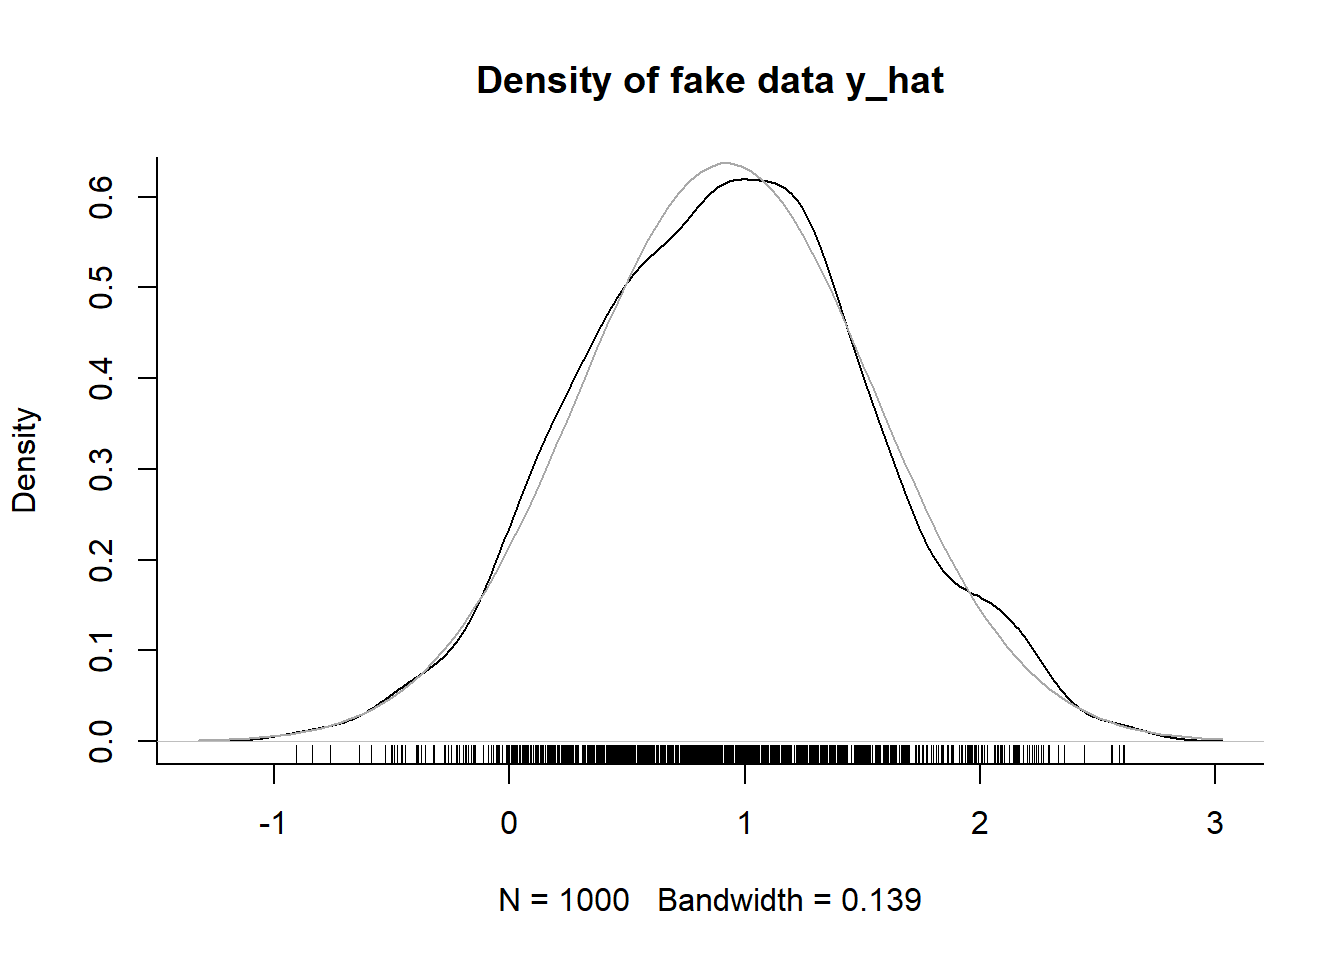
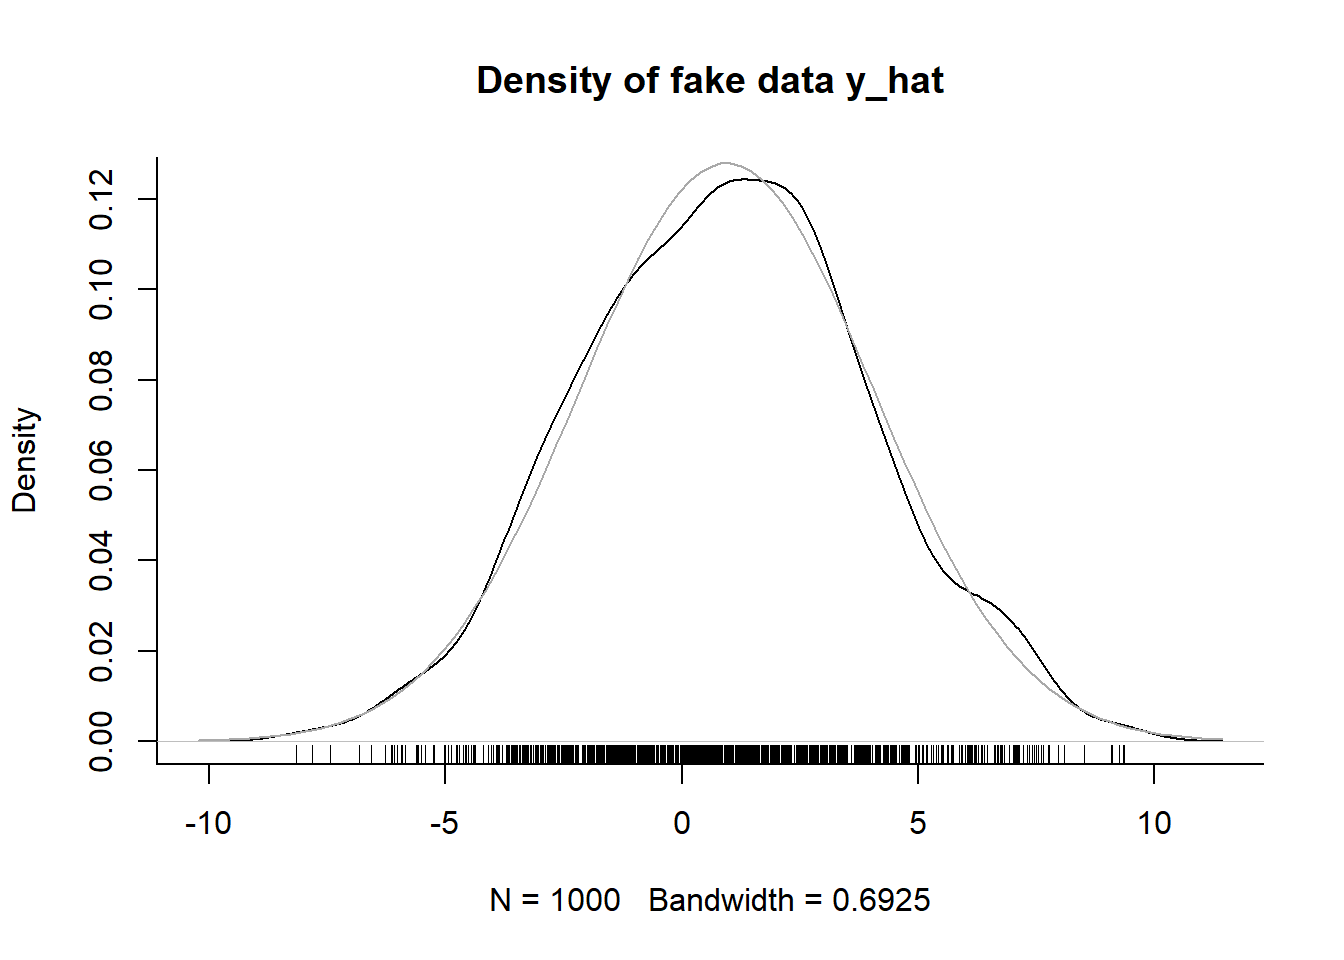
update tiny gan

diff --git a/blog/tiny_gan.html b/blog/tiny_gan.html
@@ -2824,11 +2824,11 @@ Theoretical note
 <div class="sourceCode cell-code" id="cb11"><pre class="sourceCode r code-with-copy"><code class="sourceCode r"><span id="cb11-1"><a href="#cb11-1" aria-hidden="true" tabindex="-1"></a><span class="co"># inspect parameters</span></span>
 <span id="cb11-2"><a href="#cb11-2" aria-hidden="true" tabindex="-1"></a>(mu_hat <span class="ot">&lt;-</span> <span class="fu">as.numeric</span>(generator<span class="sc">$</span>parameters[[<span class="st">&quot;bias&quot;</span>]]))</span></code><button title="Copy to Clipboard" class="code-copy-button"><i class="bi"></i></button></pre></div>
 <div class="cell-output cell-output-stdout">
-<pre><code>[1] 0.9226568</code></pre>
+<pre><code>[1] 0.9485998</code></pre>
 </div>
 <div class="sourceCode cell-code" id="cb13"><pre class="sourceCode r code-with-copy"><code class="sourceCode r"><span id="cb13-1"><a href="#cb13-1" aria-hidden="true" tabindex="-1"></a>(sd_hat <span class="ot">&lt;-</span> <span class="fu">abs</span>(<span class="fu">as.numeric</span>(generator<span class="sc">$</span>parameters[[<span class="st">&quot;weight&quot;</span>]])))</span></code><button title="Copy to Clipboard" class="code-copy-button"><i class="bi"></i></button></pre></div>
 <div class="cell-output cell-output-stdout">
-<pre><code>[1] 0.626105</code></pre>
+<pre><code>[1] 3.118304</code></pre>
 </div>
 <div class="sourceCode cell-code" id="cb15"><pre class="sourceCode r code-with-copy"><code class="sourceCode r"><span id="cb15-1"><a href="#cb15-1" aria-hidden="true" tabindex="-1"></a><span class="co"># generate fake data</span></span>
 <span id="cb15-2"><a href="#cb15-2" aria-hidden="true" tabindex="-1"></a>y_hat <span class="ot">&lt;-</span> <span class="fu">as.numeric</span>(<span class="fu">generator</span>(<span class="fu">matrix</span>(<span class="fu">rnorm</span>(<span class="dv">1000</span>))))</span>
@@ -2837,13 +2837,13 @@ Theoretical note
 <span id="cb15-5"><a href="#cb15-5" aria-hidden="true" tabindex="-1"></a><span class="fu">curve</span>(<span class="fu">dnorm</span>(x, mu_hat, sd_hat), <span class="at">add =</span> <span class="cn">TRUE</span>, <span class="at">col =</span> <span class="st">&quot;darkgrey&quot;</span>)</span>
 <span id="cb15-6"><a href="#cb15-6" aria-hidden="true" tabindex="-1"></a><span class="fu">rug</span>(y_hat)</span></code><button title="Copy to Clipboard" class="code-copy-button"><i class="bi"></i></button></pre></div>
 <div class="cell-output-display">
[2 lines of base64/hex data omitted]
 </div>
 </div>
 </section>
 <section id="conclusion" class="level2">
 <h2 class="anchored" data-anchor-id="conclusion">Conclusion</h2>
-<p>In this post, I taught a generator to generate <span class="math inline">\(\mathcal{N}(1, 3)\)</span> data by making it compete against a discriminator. The parameters of the generator were very close to the true values: 0.92 <span class="math inline">\(\approx\)</span> 1 and 0.63 <span class="math inline">\(\approx\)</span> 3. In other words, without having specified any likelihood, I have approximated maximum likelihood estimation for this distribution! For other distributions and with fewer assumptions, both the generator and the discriminator would need to be extended. The generator would need to do more complicated transformations to, say, generate uniform distributed data. The discriminator would also need to be more complicated to create nonlinear or multivariate decision boundaries.</p>
+<p>In this post, I taught a generator to generate <span class="math inline">\(\mathcal{N}(1, 3)\)</span> data by making it compete against a discriminator. The parameters of the generator were very close to the true values: 0.95 <span class="math inline">\(\approx\)</span> 1 and 3.12 <span class="math inline">\(\approx\)</span> 3. In other words, without having specified any likelihood, I have approximated maximum likelihood estimation for this distribution! For other distributions and with fewer assumptions, both the generator and the discriminator would need to be extended. The generator would need to do more complicated transformations to, say, generate uniform distributed data. The discriminator would also need to be more complicated to create nonlinear or multivariate decision boundaries.</p>
 <p>In creating this smallest GAN, I’ve learned the following things:</p>
 <ul>
 <li>The process requires quite some fine-tuning to the problem at hand. I started with much larger networks for the same problem, and they were performing very poorly.</li>
